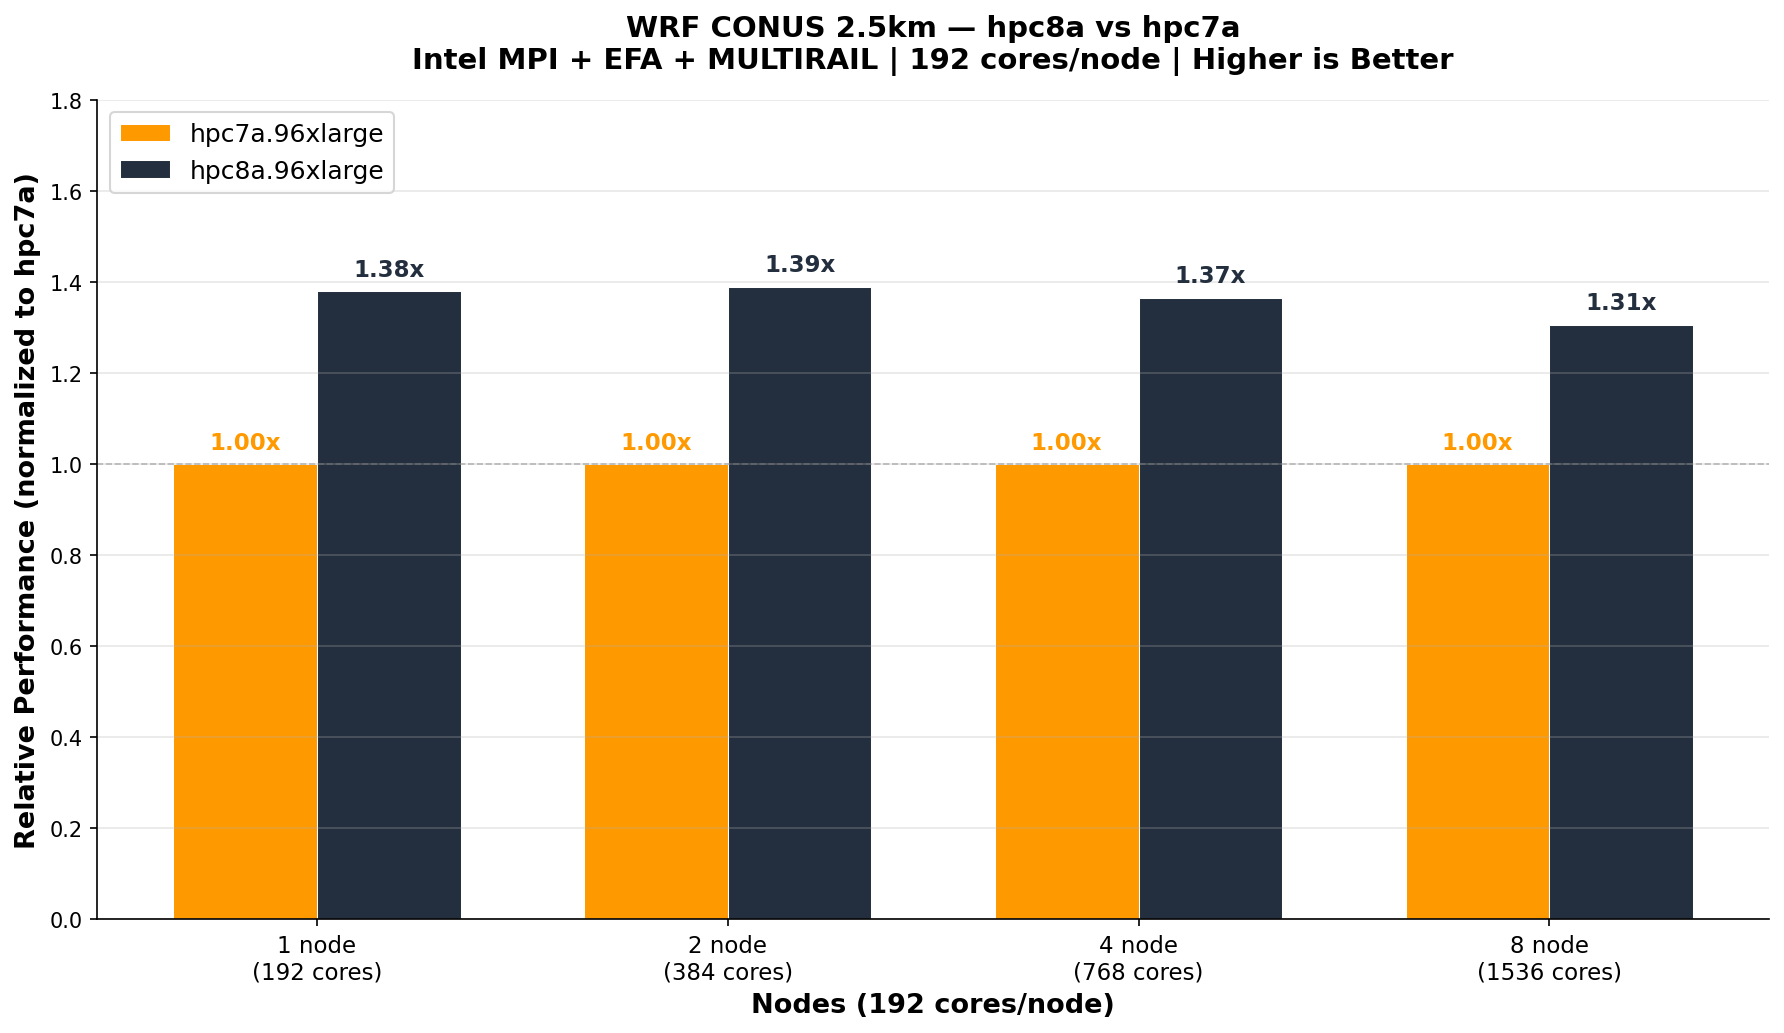
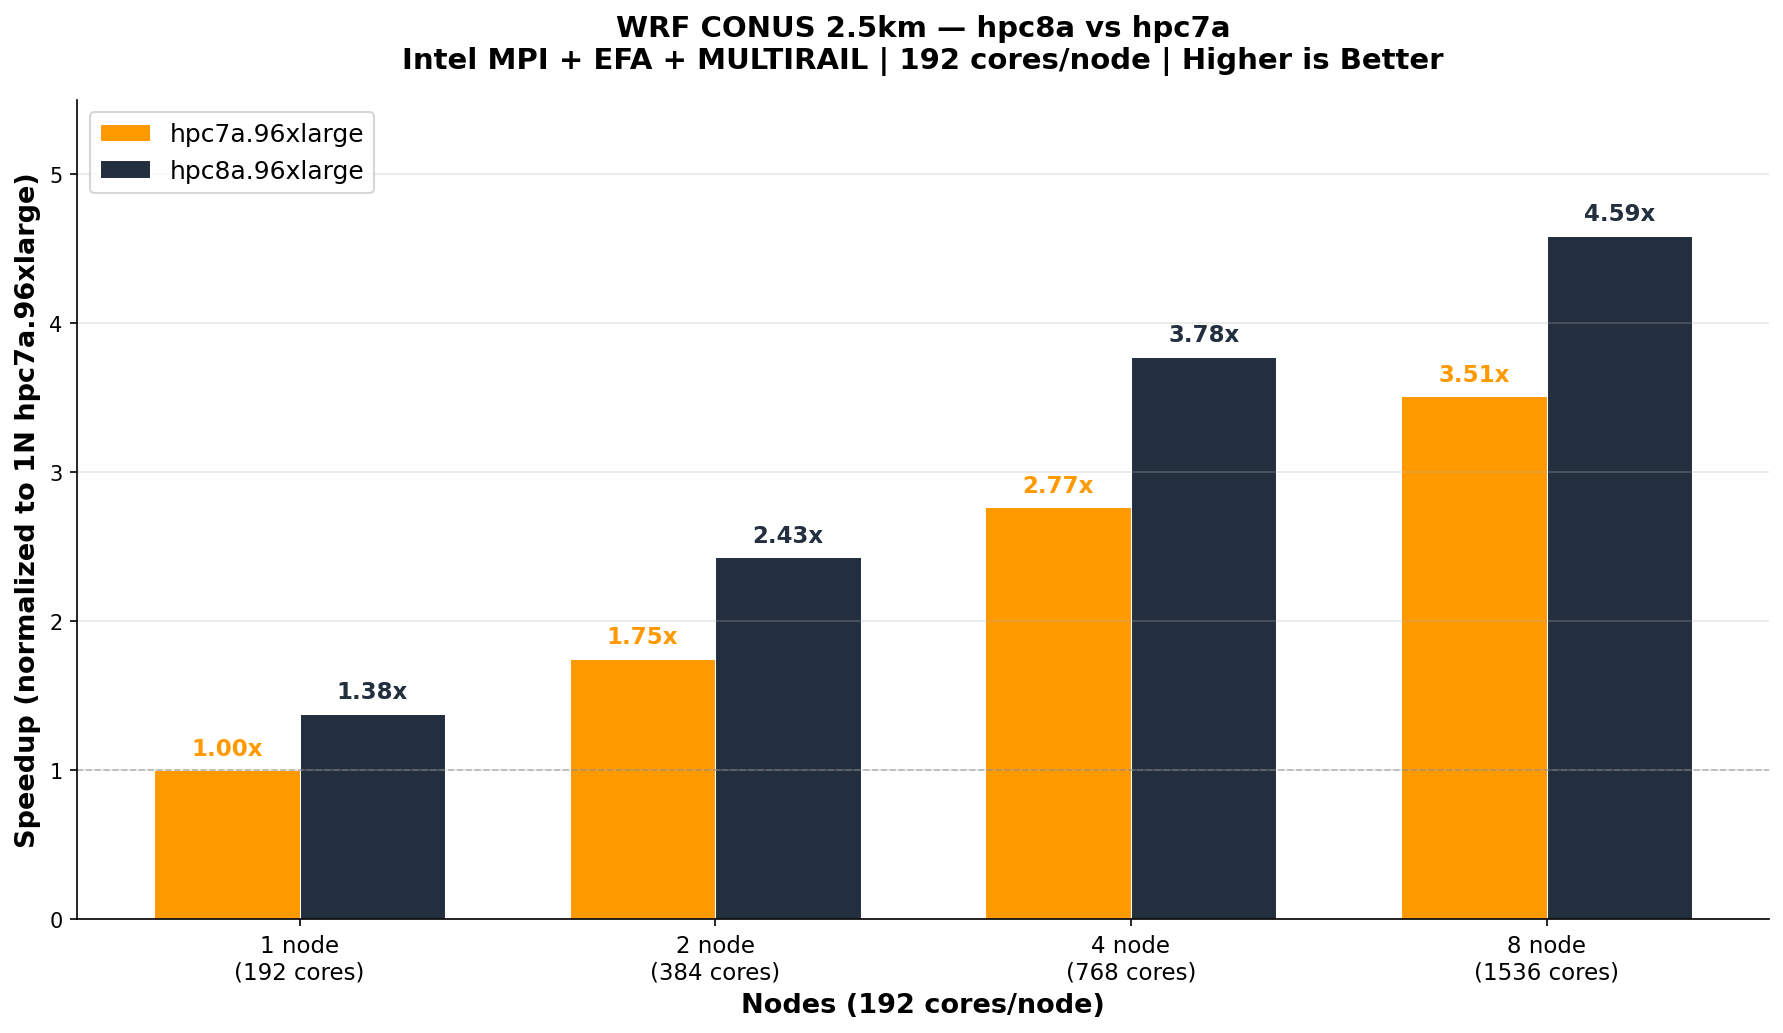
docs(WRF): Update chart normalized to 1N hpc7a baseline
Regenerate the hpc8a vs hpc7a performance chart with all bars
normalized to a single hpc7a.96xlarge node as the 1.0x baseline.
Update README with detailed performance commentary.

diff --git a/apps/WRF/README.md b/apps/WRF/README.md
@@ -103,9 +103,17 @@ for N in 1 2 4 8; do sbatch --nodes=$N wrf-benchmark-conus2.5km-intel.sbatch; do
 
 ## Performance
 
-This chart shows the relative performance of WRF running the CONUS 2.5km benchmark (1501×1201 grid) on AWS EC2 [hpc8a](https://aws.amazon.com/ec2/instance-types/hpc8a/) vs [hpc7a](https://aws.amazon.com/ec2/instance-types/hpc7a/) instances, using Intel MPI with EFA and MULTIRAIL enabled. Performance is normalized to hpc7a (higher is better).
+This chart shows the scaling performance of WRF running the CONUS 2.5km benchmark (1501×1201 grid, 15s timestep, 6-hour simulation) on AWS EC2 [hpc8a](https://aws.amazon.com/ec2/instance-types/hpc8a/) vs [hpc7a](https://aws.amazon.com/ec2/instance-types/hpc7a/) instances.
+
+All runs use Intel MPI 2021.17 with EFA and MULTIRAIL enabled, 192 cores per node (full node utilization). Performance is expressed as speedup normalized to a single hpc7a.96xlarge node — higher is better.
 
 ![WRF CONUS 2.5km hpc8a vs hpc7a](https://github.com/aws-samples/hpc-applications/blob/main/Doc/img/WRF/WRF-CONUS2.5km-Hpc8aVsHpc7a.png?raw=true)
+
+Key takeaways:
+- A single hpc8a node delivers **1.38x** the performance of a single hpc7a node
+- At 8 nodes, hpc8a reaches **4.59x** vs **3.51x** for hpc7a (relative to the 1N hpc7a baseline)
+- hpc8a maintains a consistent ~30–38% advantage over hpc7a at every node count
+- Both instance types show good scaling up to 4 nodes; efficiency tapers at 8 nodes as the CONUS 2.5km workload begins to saturate at 1536 cores
 
 ## Key Metrics
 
